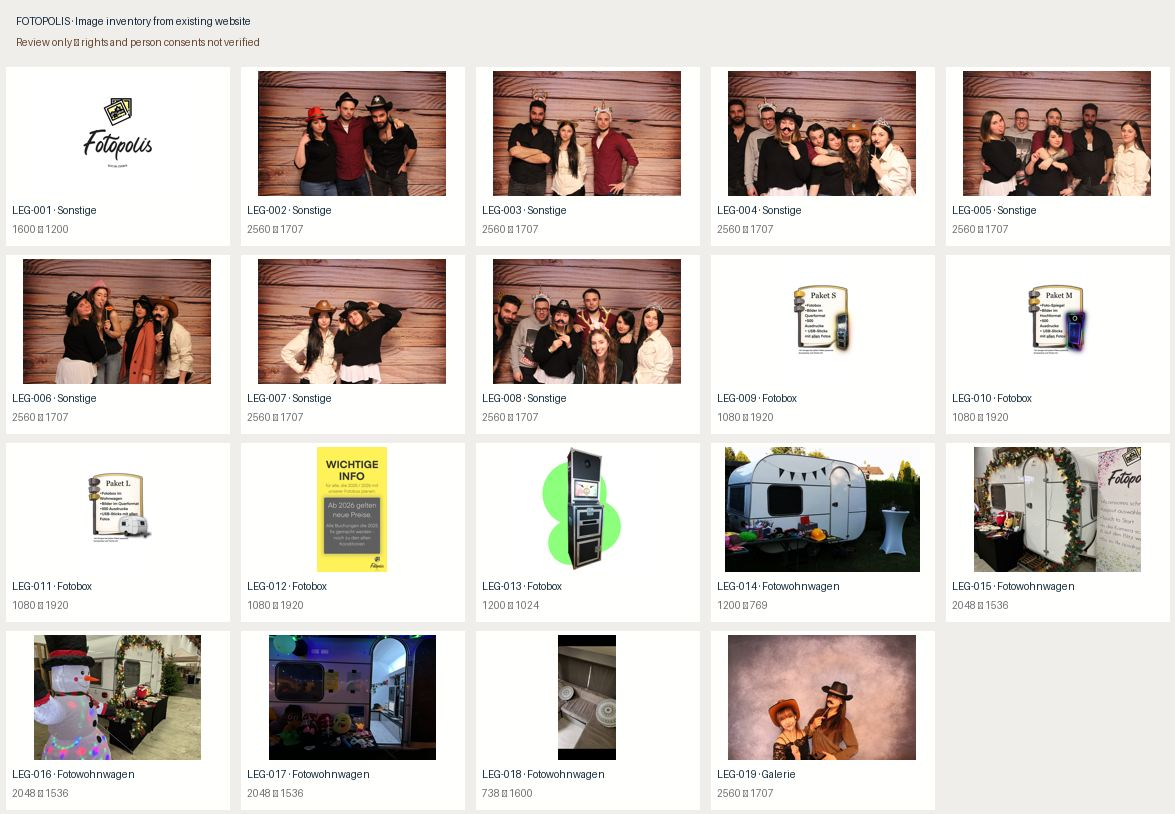
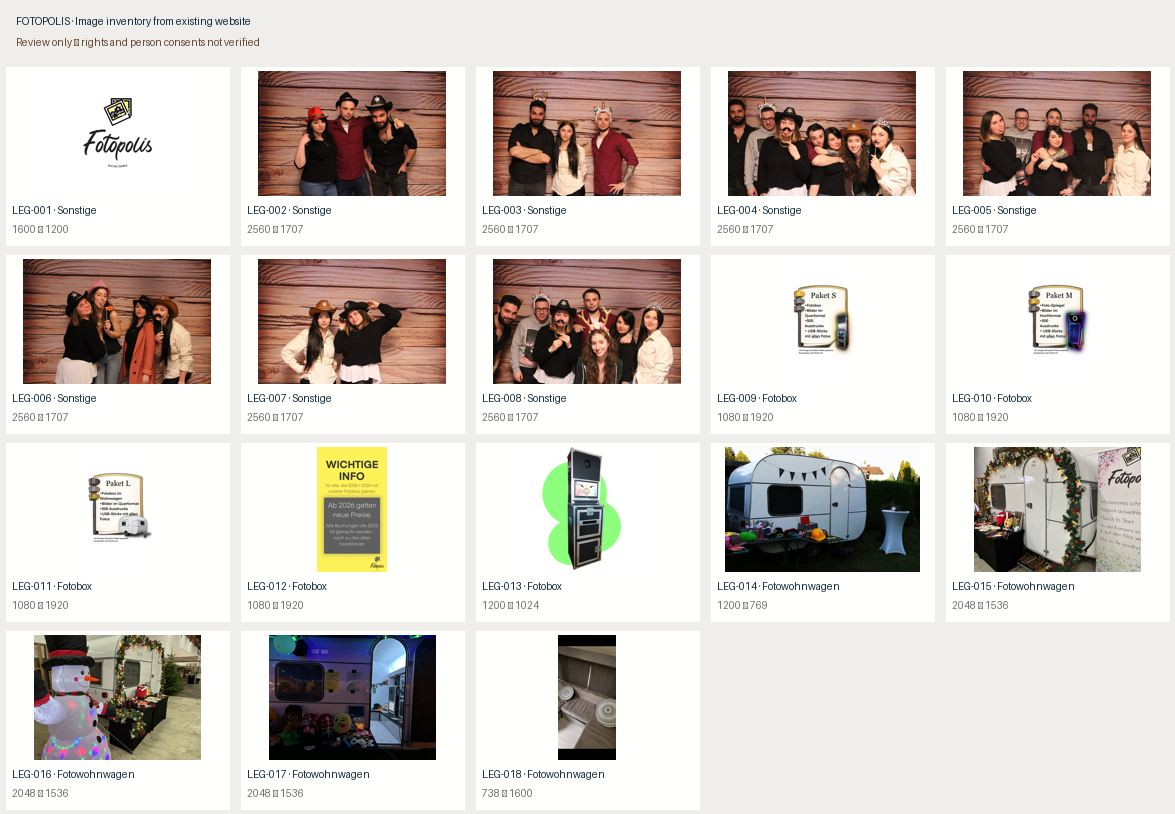
assets: stage legacy FOTOPOLIS imagery for review only

Changed region(s): [[0.6128, 0.7678, 0.7966, 0.9828]]

diff --git a/docs/LEGACY_IMAGE_INVENTORY_1_0.md b/docs/LEGACY_IMAGE_INVENTORY_1_0.md
@@ -4,8 +4,8 @@ Quelle: https://fotopolis-mieten.de/
 Status: nur gesonderte Bildbibliothek zur Sichtung. Keine produktive Verwendung oder Veröffentlichung genehmigt.
 
 ## Zahlen
-- identified: 19
-- imported: 19
+- identified: 18
+- imported: 18
 - failed: 0
 - duplicates: 0
 - under800px_shorter_side: 2
@@ -13,7 +13,6 @@ Status: nur gesonderte Bildbibliothek zur Sichtung. Keine produktive Verwendung 
 ## Vorläufige Rubriken
 - Fotobox: 5
 - Fotowohnwagen: 5
-- Galerie: 1
 - Sonstige: 8
 
 ## Dateien
